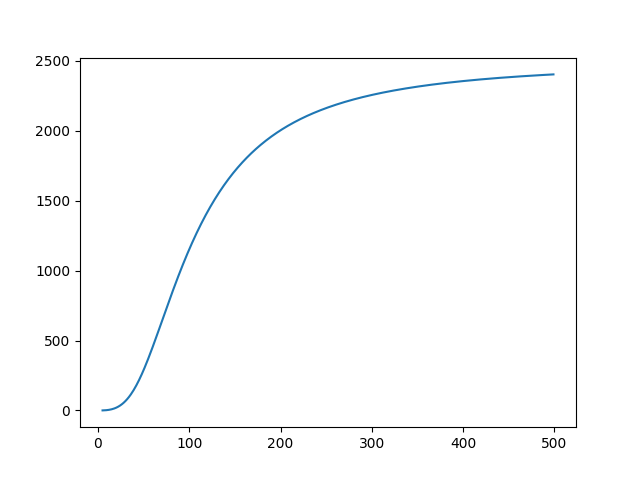
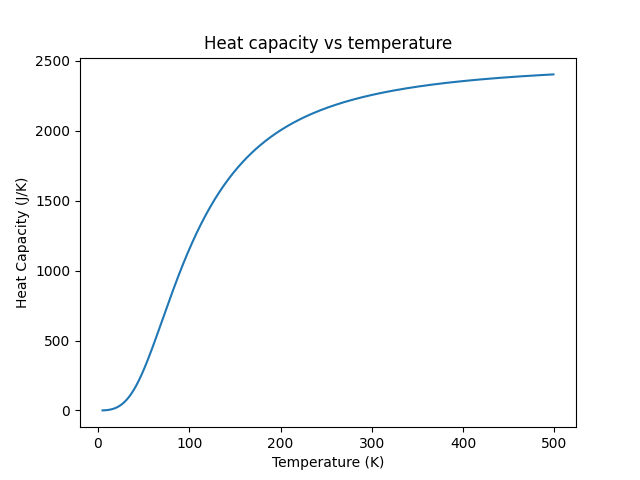
problem 1 and 2 finished

Changed region(s): [[0.3125, 0.0625, 0.7188, 0.125], [0.0, 0.375, 0.0625, 0.6562], [0.4375, 0.9375, 0.5938, 1.0]]

diff --git a/ps-4/problem1.py b/ps-4/problem1.py
@@ -39,25 +39,42 @@ def plot_cv(wp, xp):
 T, cV = plot_cv(wp, xp)
 
 fig, ax = plt.subplots()
-
 ax.plot(T, cV)
+
+ax.set_title("Heat capacity vs temperature")
+ax.set_xlabel("Temperature (K)")
+ax.set_ylabel("Heat Capacity (J/K)")
+
+
 plt.savefig("ps-4/plots/heatCapacity")
 
 N_list = [10, 20, 30, 40, 50, 60, 70]
 
-xpwp = []
-Ts = []
-cVs = []
+xps = []
+wps = []
+cvs = []
+
+
+T= 25
+Ts = T * np.ones(len(N_list))
+cVs = const_Cv(V, rho, theta, kb, Ts)
 for n in N_list:
-    xpwp.append(np.polynomial.legendre.leggauss(n))
-    T, cV = plot_cv(np.polynomial.legendre.leggauss(n), xp)
-    Ts.append(T)
-    cVs.append(cV)
+    xp, wp = np.polynomial.legendre.leggauss(n)
+    xps.append(xp)
+    wps.append(wp)
+
+for i in range(len(N_list)):
+    cvs.append(cv(Ts[i], wps[i], xps[i]))
+
+
 
 fig, ax = plt.subplots()
-for i in range(len(N_list)):
-    ax.plot(Ts[i], cV[i], label = N_list[i])
 
+ax.scatter(N_list, cvs, label = f"{T} K")
+ax.set_title("Convergence of different N")
+ax.set_xlabel("N value")
+ax.set_ylabel("heat capacity (J/K)")
 ax.legend()
+
 
 plt.savefig("ps-4/plots/heatCapacityConvergence")

diff --git a/ps-4/problem2.py b/ps-4/problem2.py
@@ -1,0 +1,47 @@
+import numpy as np
+import matplotlib.pyplot as plt
+
+import numpy as np
+import matplotlib.pyplot as plt
+
+m = 1
+N = 20
+xp, wp = np.polynomial.legendre.leggauss(N)
+def Integral(a = None, x=None):
+    diff = a **4 - x **4
+    good = np.where(diff >0, diff, np.nan)
+    return 1/np.sqrt(good)
+
+def func_rescale(a = None, xp=None, range=None):
+    weight = (range[1] - range[0]) * 0.5
+    x = range[0] + 0.5 * (range[1] - range[0]) * (xp + 1.)
+    return(weight * Integral(a = a, x=x))
+
+def const_T(m):
+    return np.sqrt(m*8)
+
+def T(a, wp, xp):
+    constant = const_T(m)
+    range = [0, a]
+    gauss_integral = constant * (func_rescale(a = a, xp = xp, range = range) * wp).sum()
+    return gauss_integral
+
+def plot_T_a():
+    Ts = []
+    ass = []
+    for a in range(20):
+        ass.append(a)
+        Ts.append( T(a, wp, xp))
+
+    return ass, Ts
+
+ass, Ts = plot_T_a()
+
+fig, ax = plt.subplots()
+ax.plot(Ts, ass)
+ax.set_title("Anharmonic Oscillator")
+ax.set_xlabel("amplitude")
+ax.set_ylabel("Period")
+plt.savefig("ps-4/plots/period")
+
+
